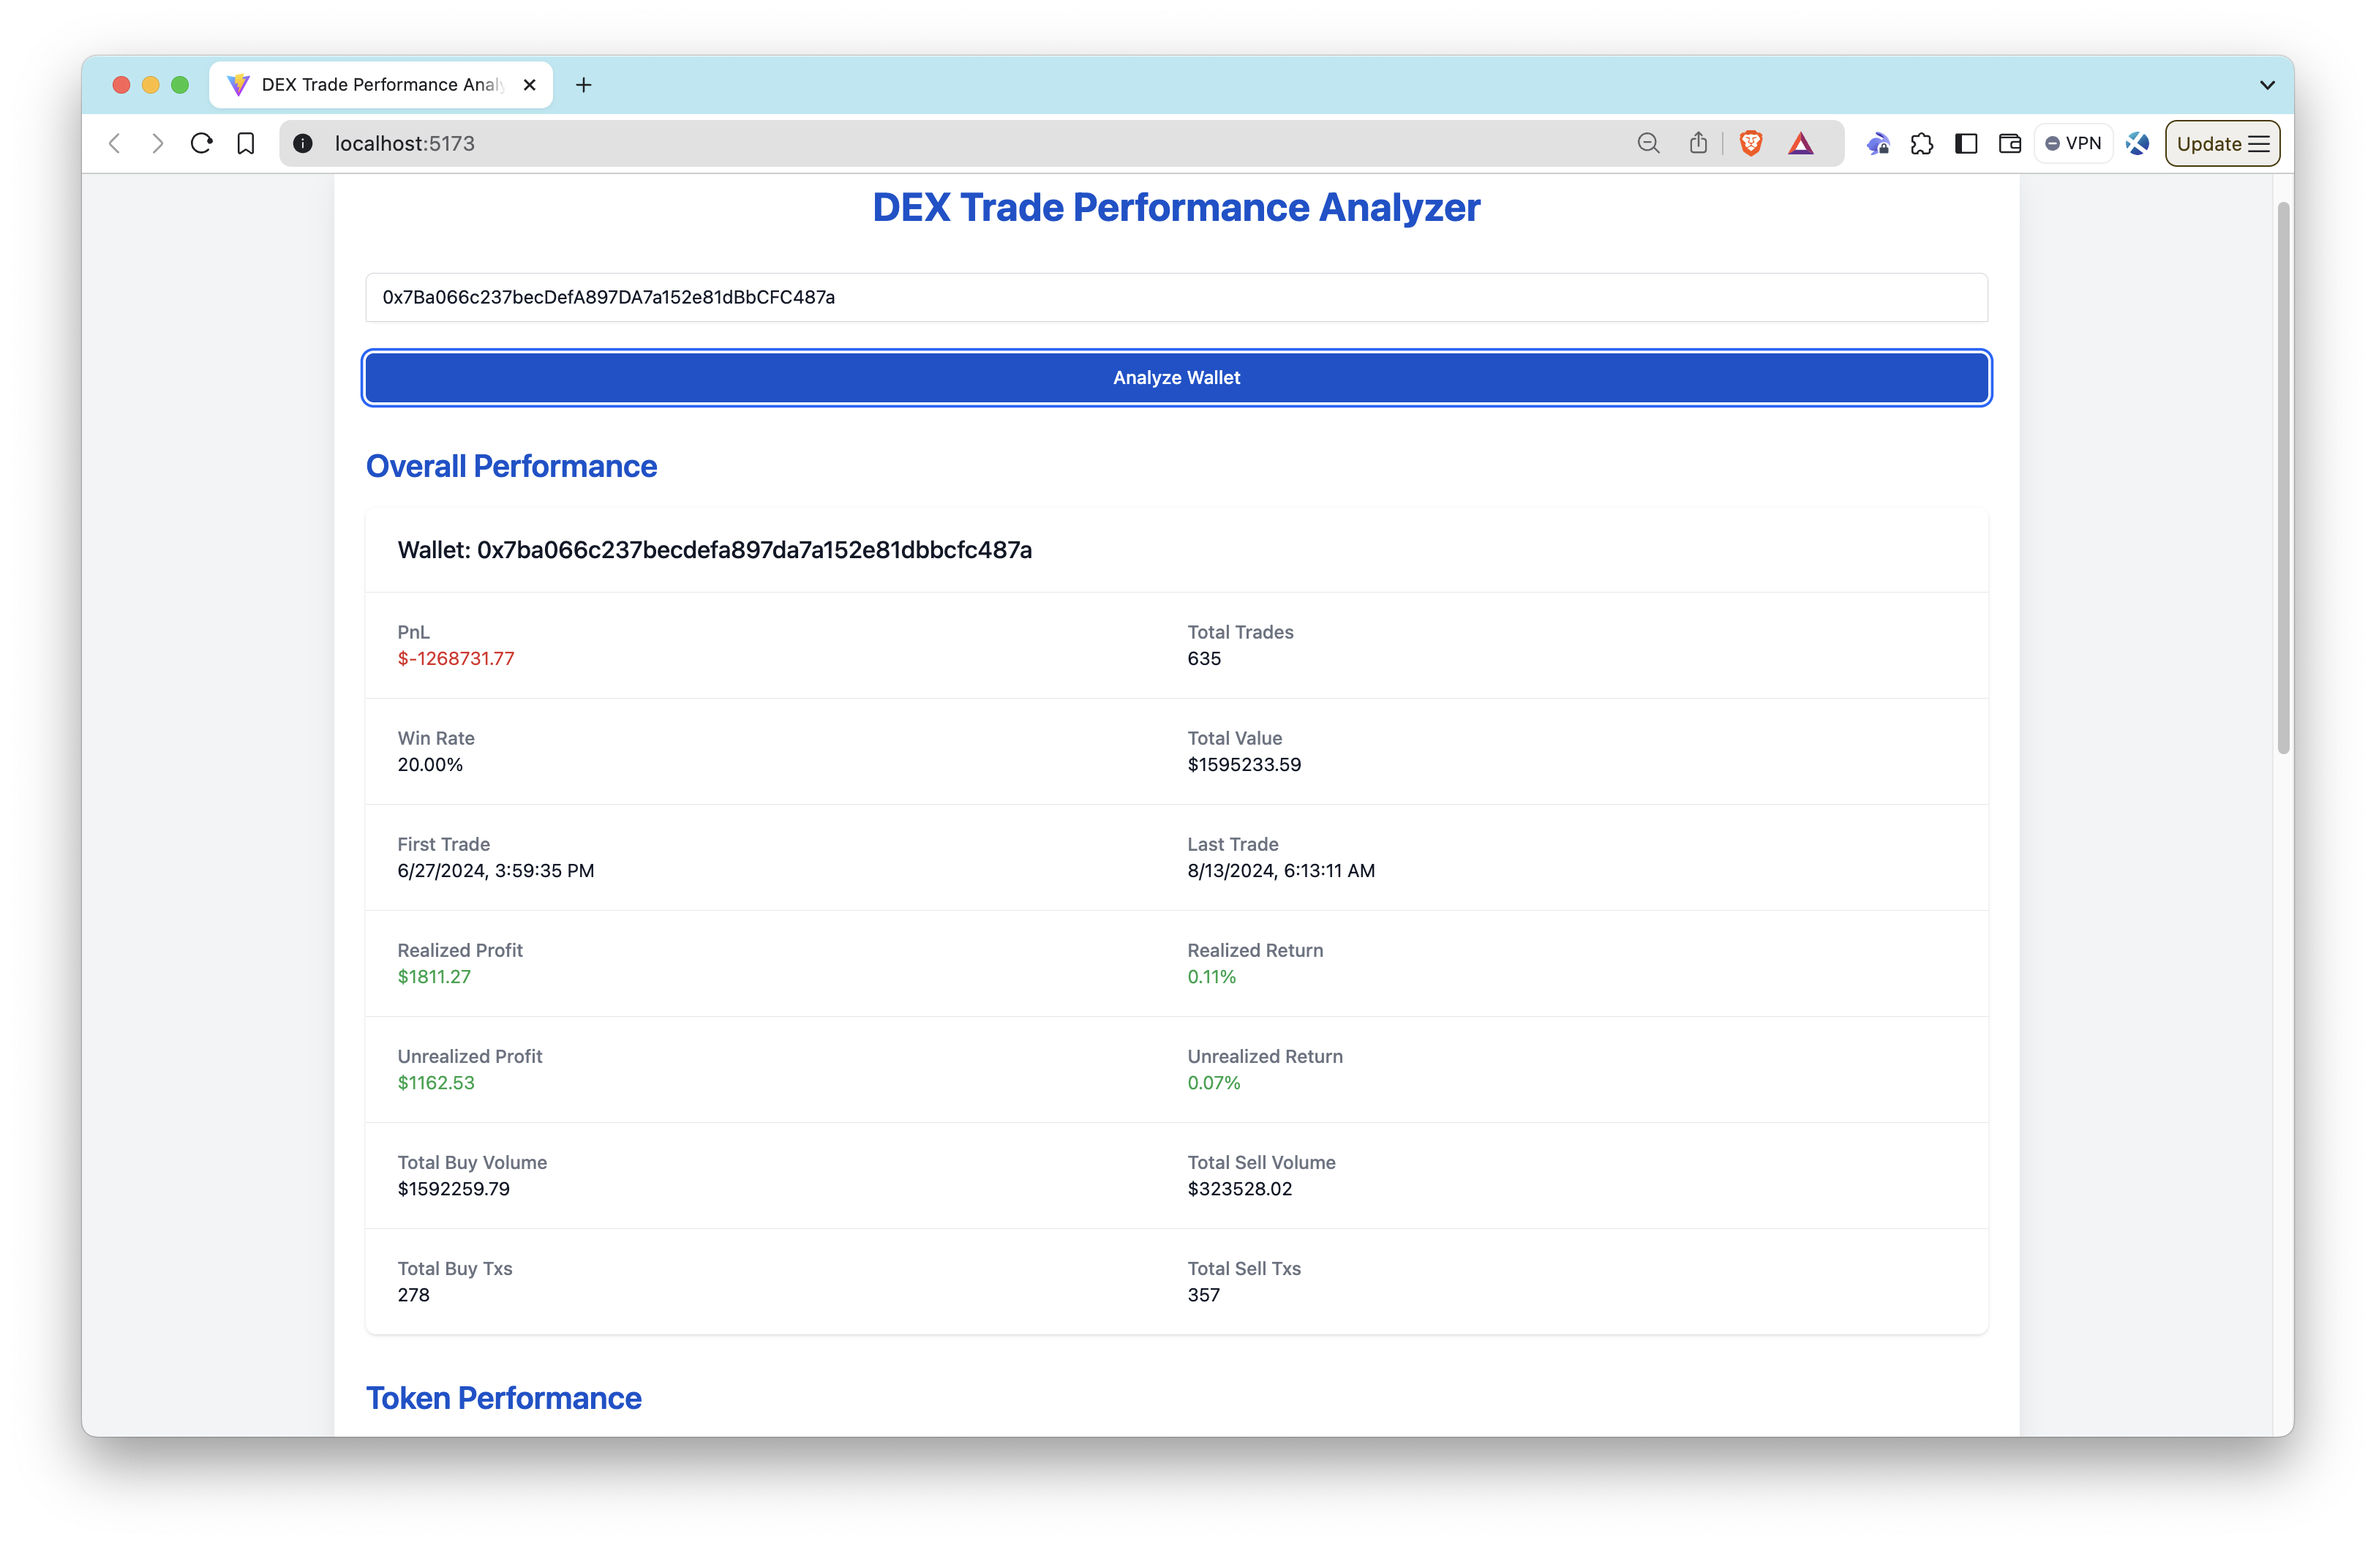
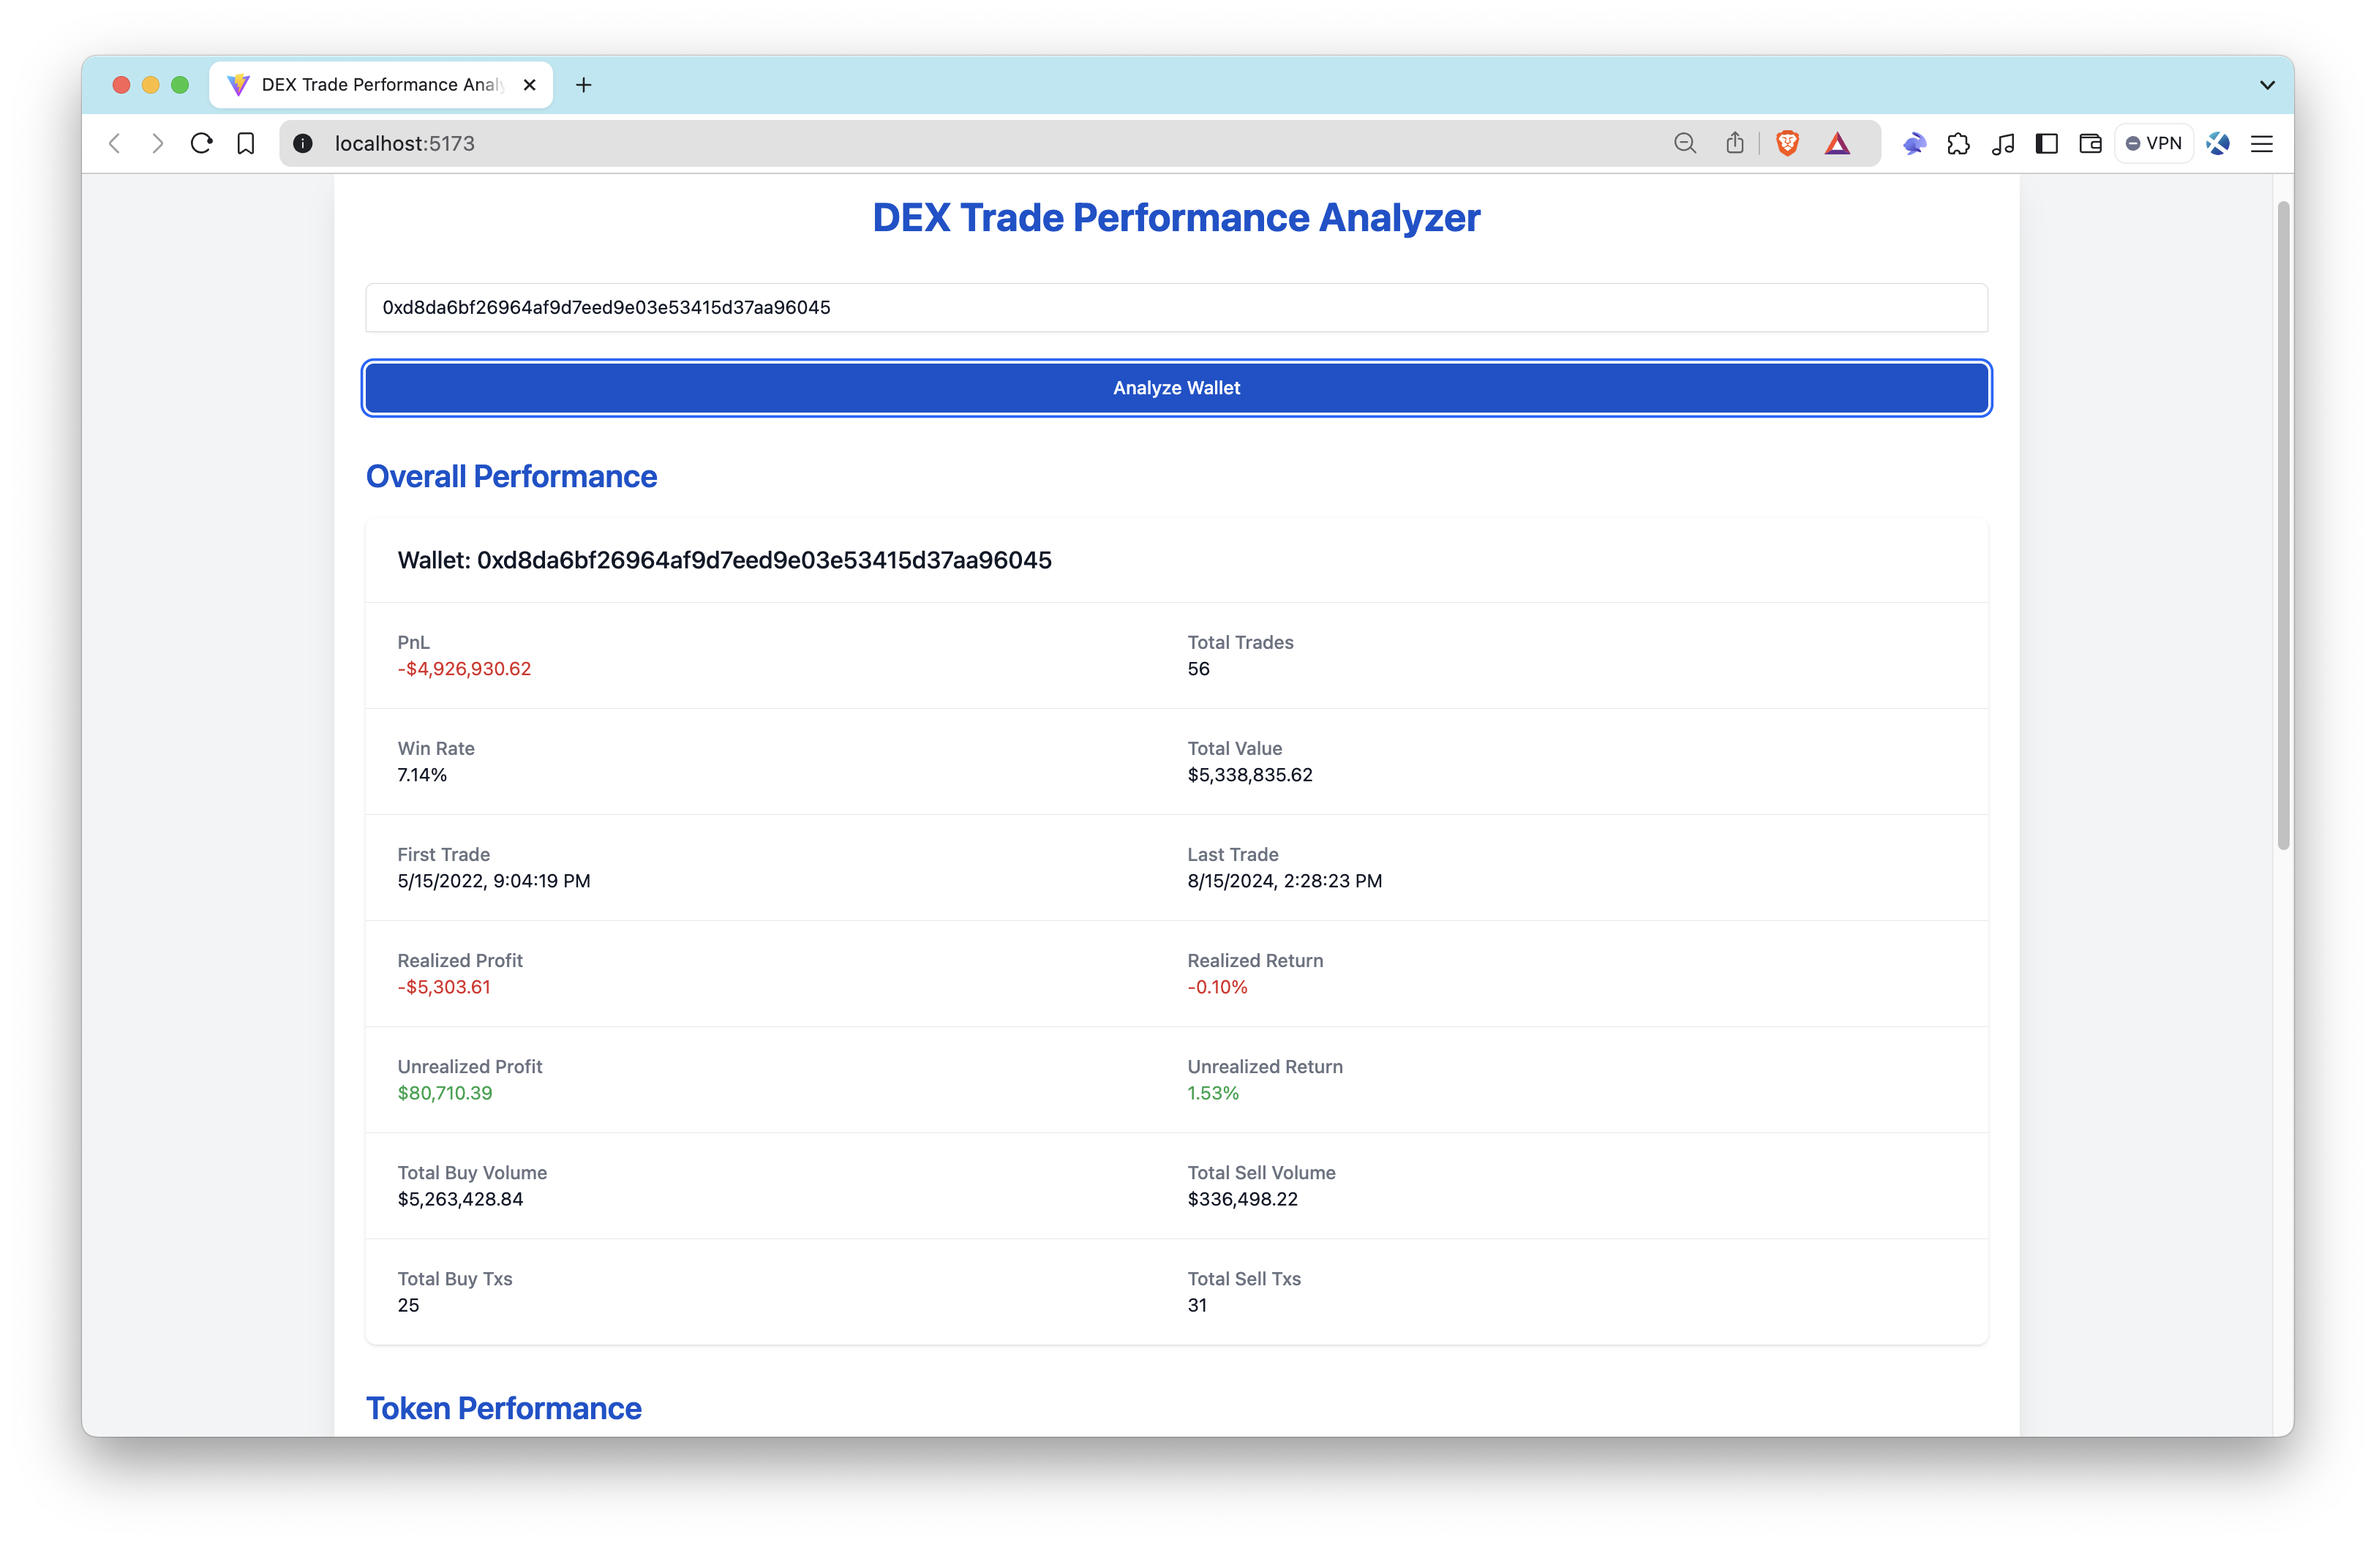
feedback

diff --git a/sample-dapps/ethereum-dex-trade-performance-analyzer/src/components/TokenPerformanceTable.tsx b/sample-dapps/ethereum-dex-trade-performance-analyzer/src/components/TokenPerformanceTable.tsx
@@ -108,7 +108,11 @@ const TokenPerformanceTable: React.FC<TokenPerformanceTableProps> = ({
                       token.pnl >= 0 ? "text-green-600" : "text-red-600"
                     }`}
                   >
-                    ${token.pnl.toFixed(2)}
+                    {new Intl.NumberFormat(undefined, {
+                      style: "currency",
+                      currency: "USD",
+                      maximumFractionDigits: 2,
+                    }).format(token.pnl)}
                   </div>
                 </td>
                 <td className="px-6 py-4 whitespace-nowrap text-sm text-gray-500">
@@ -121,10 +125,18 @@ const TokenPerformanceTable: React.FC<TokenPerformanceTableProps> = ({
                   {token.total_sell_amount.toFixed(4)}
                 </td>
                 <td className="px-6 py-4 whitespace-nowrap text-sm text-gray-500">
-                  ${token.avg_buy_price.toFixed(4)}
+                  {new Intl.NumberFormat(undefined, {
+                    style: "currency",
+                    currency: "USD",
+                    maximumFractionDigits: 4,
+                  }).format(token.avg_buy_price)}
                 </td>
                 <td className="px-6 py-4 whitespace-nowrap text-sm text-gray-500">
-                  ${token.current_price.toFixed(4)}
+                  {new Intl.NumberFormat(undefined, {
+                    style: "currency",
+                    currency: "USD",
+                    maximumFractionDigits: 4,
+                  }).format(token.current_price)}
                 </td>
                 <td className="px-6 py-4 whitespace-nowrap text-sm font-medium">
                   <button
@@ -150,22 +162,38 @@ const TokenPerformanceTable: React.FC<TokenPerformanceTableProps> = ({
                           {formatDate(token.last_trade_timestamp)}
                         </p>
                         <p>
-                          <strong>Total Buy Volume:</strong> $
-                          {token.total_buy_volume.toFixed(2)}
+                          <strong>Total Buy Volume:</strong>
+                          {new Intl.NumberFormat(undefined, {
+                            style: "currency",
+                            currency: "USD",
+                            maximumFractionDigits: 2,
+                          }).format(token.total_buy_volume)}
                         </p>
                         <p>
-                          <strong>Total Sell Volume:</strong> $
-                          {token.total_sell_volume.toFixed(2)}
+                          <strong>Total Sell Volume:</strong>
+                          {new Intl.NumberFormat(undefined, {
+                            style: "currency",
+                            currency: "USD",
+                            maximumFractionDigits: 2,
+                          }).format(token.total_sell_volume)}
                         </p>
                       </div>
                       <div>
                         <p>
-                          <strong>Realized Profit:</strong> $
-                          {token.realized_profit.toFixed(2)}
+                          <strong>Realized Profit:</strong>
+                          {new Intl.NumberFormat(undefined, {
+                            style: "currency",
+                            currency: "USD",
+                            maximumFractionDigits: 2,
+                          }).format(token.realized_profit)}
                         </p>
                         <p>
-                          <strong>Unrealized Profit:</strong> $
-                          {token.unrealized_profit.toFixed(2)}
+                          <strong>Unrealized Profit:</strong>
+                          {new Intl.NumberFormat(undefined, {
+                            style: "currency",
+                            currency: "USD",
+                            maximumFractionDigits: 2,
+                          }).format(token.unrealized_profit)}
                         </p>
                       </div>
                     </div>

diff --git a/sample-dapps/ethereum-dex-trade-performance-analyzer/src/components/OverallStatsDisplay.tsx b/sample-dapps/ethereum-dex-trade-performance-analyzer/src/components/OverallStatsDisplay.tsx
@@ -24,11 +24,13 @@ const OverallStatsDisplay: React.FC<OverallStatsDisplayProps> = ({ stats }) => {
         <dl className="sm:divide-y sm:divide-gray-200">
           <div className="py-4 sm:py-5 sm:grid sm:grid-cols-2 sm:gap-4 sm:px-6">
             <div>
-              <dt className="text-sm font-medium text-gray-500">
-                PnL
-              </dt>
+              <dt className="text-sm font-medium text-gray-500">PnL</dt>
               <dd className={`mt-1 text-sm ${colorClass(stats.pnl)} sm:mt-0`}>
-                ${stats.pnl.toFixed(2)}
+                {new Intl.NumberFormat(undefined, {
+                  style: "currency",
+                  currency: "USD",
+                  maximumFractionDigits: 2,
+                }).format(stats.pnl)}
               </dd>
             </div>
             <div>
@@ -50,7 +52,11 @@ const OverallStatsDisplay: React.FC<OverallStatsDisplayProps> = ({ stats }) => {
             <div>
               <dt className="text-sm font-medium text-gray-500">Total Value</dt>
               <dd className="mt-1 text-sm text-gray-900 sm:mt-0">
-                ${stats.total_value.toFixed(2)}
+                {new Intl.NumberFormat(undefined, {
+                  style: "currency",
+                  currency: "USD",
+                  maximumFractionDigits: 2,
+                }).format(stats.total_value)}
               </dd>
             </div>
           </div>
@@ -78,7 +84,11 @@ const OverallStatsDisplay: React.FC<OverallStatsDisplayProps> = ({ stats }) => {
                   stats.realized_profit
                 )} sm:mt-0`}
               >
-                ${stats.realized_profit.toFixed(2)}
+                {new Intl.NumberFormat(undefined, {
+                  style: "currency",
+                  currency: "USD",
+                  maximumFractionDigits: 2,
+                }).format(stats.realized_profit)}
               </dd>
             </div>
             <div>
@@ -104,7 +114,11 @@ const OverallStatsDisplay: React.FC<OverallStatsDisplayProps> = ({ stats }) => {
                   stats.unrealized_profit
                 )} sm:mt-0`}
               >
-                ${stats.unrealized_profit.toFixed(2)}
+                {new Intl.NumberFormat(undefined, {
+                  style: "currency",
+                  currency: "USD",
+                  maximumFractionDigits: 2,
+                }).format(stats.unrealized_profit)}
               </dd>
             </div>
             <div>
@@ -126,7 +140,11 @@ const OverallStatsDisplay: React.FC<OverallStatsDisplayProps> = ({ stats }) => {
                 Total Buy Volume
               </dt>
               <dd className="mt-1 text-sm text-gray-900 sm:mt-0">
-                ${stats.total_buy_volume.toFixed(2)}
+                {new Intl.NumberFormat(undefined, {
+                  style: "currency",
+                  currency: "USD",
+                  maximumFractionDigits: 2,
+                }).format(stats.total_buy_volume)}
               </dd>
             </div>
             <div>
@@ -134,7 +152,11 @@ const OverallStatsDisplay: React.FC<OverallStatsDisplayProps> = ({ stats }) => {
                 Total Sell Volume
               </dt>
               <dd className="mt-1 text-sm text-gray-900 sm:mt-0">
-                ${stats.total_sell_volume.toFixed(2)}
+                {new Intl.NumberFormat(undefined, {
+                  style: "currency",
+                  currency: "USD",
+                  maximumFractionDigits: 2,
+                }).format(stats.total_sell_volume)}
               </dd>
             </div>
           </div>

diff --git a/sample-dapps/ethereum-dex-trade-performance-analyzer/src/App.tsx b/sample-dapps/ethereum-dex-trade-performance-analyzer/src/App.tsx
@@ -33,8 +33,16 @@ const App: React.FC = () => {
       setTokenPerformance(tokenPerformanceData.data || []);
       setDataFetched(true);
     } catch (err) {
-      setError("Error fetching wallet data. Please try again.");
-      console.error(err);
+      if (
+        err instanceof Error &&
+        err.message.includes("does not exist/is not available")
+      ) {
+        setError(
+          "Add-on is not enabled. Please visit your QN dashboard and enable the add-on."
+        );
+      } else {
+        setError("Error fetching wallet data. Please try again.");
+      }
     } finally {
       setLoading(false);
     }
